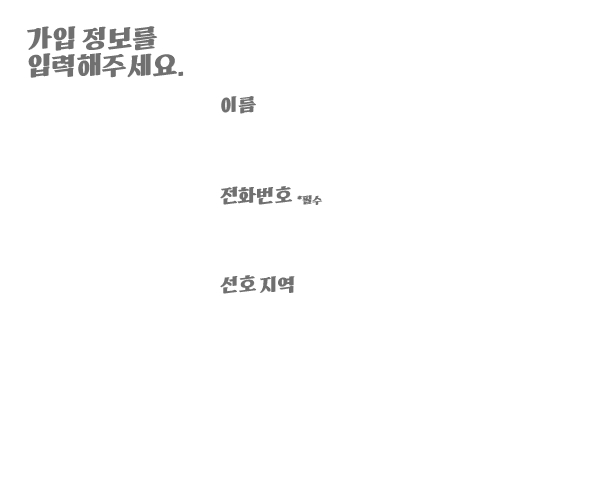
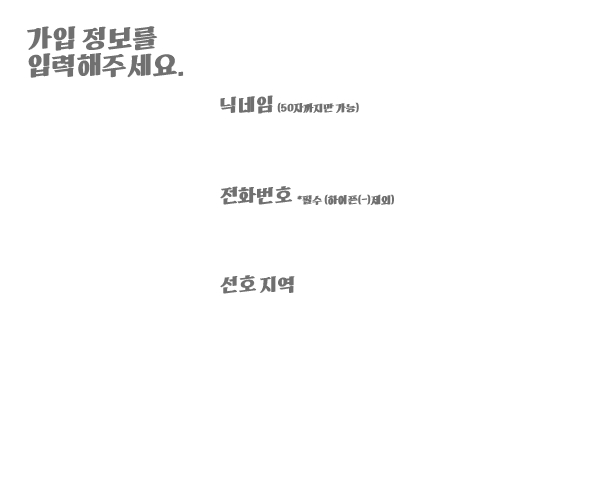
회원가입 수정3

Changed region(s): [[0.36, 0.18, 0.6, 0.24], [0.54, 0.39, 0.66, 0.42]]

diff --git a/src/ver01/SignIn.java b/src/ver01/SignIn.java
@@ -1,20 +1,33 @@
 package ver01;
 
 import java.awt.Choice;
+import java.awt.event.ActionEvent;
+import java.awt.event.ActionListener;
+import java.awt.event.KeyAdapter;
+import java.awt.event.KeyEvent;
+import java.awt.event.KeyListener;
 
 import javax.swing.ImageIcon;
 import javax.swing.JButton;
+import javax.swing.JFormattedTextField;
 import javax.swing.JFrame;
 import javax.swing.JLabel;
+import javax.swing.JOptionPane;
 import javax.swing.JTextField;
+import javax.swing.text.NumberFormatter;
 
+import lombok.Data;
+
+@Data
 //swing 회원가입 화면
 public class SignIn extends JFrame {
 
 	private JLabel Bg;
 	private JTextField userName;
+	private Choice localTel;
 	private JTextField userPhone;
 	private Choice myLocation;
+	private JButton duplicateCheck;
 	private JButton signInBtn;
 
 	public SignIn() {
@@ -30,17 +43,24 @@ public class SignIn extends JFrame {
 		setDefaultCloseOperation(JFrame.EXIT_ON_CLOSE);
 
 		Bg = new JLabel(new ImageIcon("img/signInBg.jpg"));
-		
+
 		setContentPane(Bg);
-		
+
 		userName = new JTextField(20);
-		userName.setSize(160,25);
-		userName.setLocation(220,100);
-		
-		userPhone = new JTextField(20);
-		userPhone.setSize(160,25);
-		userPhone.setLocation(220,190);
-		
+		userName.setBounds(220, 100, 160, 25);
+
+		localTel = new Choice();
+		localTel.addItem("010");
+		localTel.addItem("011");
+		localTel.addItem("016");
+		localTel.addItem("017");
+		localTel.addItem("018");
+		localTel.addItem("019");
+		localTel.setBounds(190, 190, 50, 25);
+
+		userPhone = new JTextField();
+		userPhone.setBounds(245, 190, 140, 25);
+
 		myLocation = new Choice();
 		myLocation.addItem("강서구");
 		myLocation.addItem("사하구");
@@ -58,27 +78,88 @@ public class SignIn extends JFrame {
 		myLocation.addItem("금정구");
 		myLocation.addItem("해운대구");
 		myLocation.addItem("기장군");
-		myLocation.setSize(160,25);
-		myLocation.setLocation(220,280);
-		
+		myLocation.setSize(160, 25);
+		myLocation.setLocation(220, 280);
+
+		duplicateCheck = new JButton("중복확인");
+		duplicateCheck.setBounds(390, 190, 90, 25);
+
 		signInBtn = new JButton("가입");
-		signInBtn.setSize(120,30);
-		signInBtn.setLocation(240,350);
+		signInBtn.setBounds(240, 350, 120, 30);
 	}
 
 	private void setInitLayout() {
 		setLayout(null);
 		setVisible(true);
 		setLocationRelativeTo(null);
-		
+
 		add(userName);
+		add(localTel);
 		add(userPhone);
 		add(myLocation);
+		add(duplicateCheck);
 		add(signInBtn);
-		
+
+		duplicateCheck.setEnabled(false);
+		signInBtn.setEnabled(false);
+
 	}
 
 	private void addEventListener() {
+
+		signInBtn.addActionListener(new ActionListener() {
+
+			@Override
+			public void actionPerformed(ActionEvent e) {
+				if (userName.getText().length() > 50) {
+					JOptionPane.showMessageDialog(null, "닉네임은 50자까지만 기입 가능합니다.", "경고", JOptionPane.WARNING_MESSAGE);
+				} else if (userPhone.getText().equals("")) {
+					JOptionPane.showMessageDialog(null, "전화번호는 비워둘 수 없습니다.", "경고", JOptionPane.WARNING_MESSAGE);
+				}
+				System.out.println(userPhone.getText());
+			}
+		});
+
+		duplicateCheck.addActionListener(new ActionListener() {
+
+			@Override
+			public void actionPerformed(ActionEvent e) {
+
+				if (userPhone.getText().length() == 8) {
+					signInBtn.setEnabled(true);
+				} else {
+					JOptionPane.showMessageDialog(null, "전화번호가 8자리가 아닙니다.", "경고", JOptionPane.WARNING_MESSAGE);
+				}
+
+			}
+		});
+
+		// 전화번호 8자 이상 입력불가
+		userPhone.addKeyListener(new KeyAdapter() {
+
+			@Override
+			public void keyPressed(KeyEvent e) {
+
+				System.out.println(userPhone.getText().length());
+
+				if (userPhone.getText().length() < 9) {
+
+					duplicateCheck.setEnabled(false);
+				}
+				if (6 < userPhone.getText().length()) {
+					duplicateCheck.setEnabled(true);
+				}
+
+			}
+
+			@Override
+			public void keyTyped(KeyEvent e) {
+				if (userPhone.getText().length() > 7) {
+					e.consume();
+				}
+			}
+
+		});
 
 	}
 
